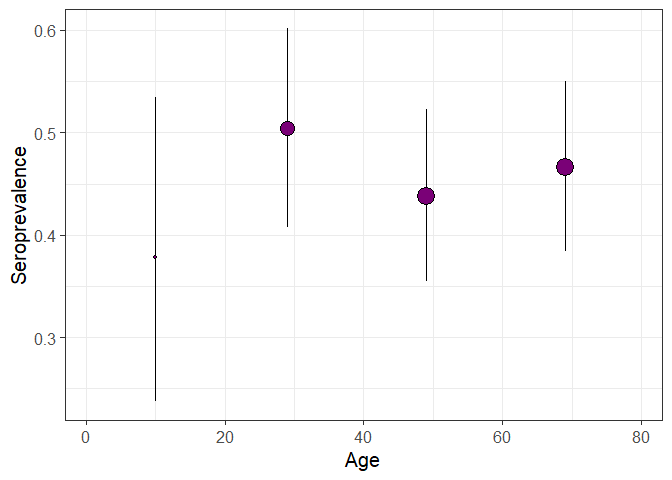
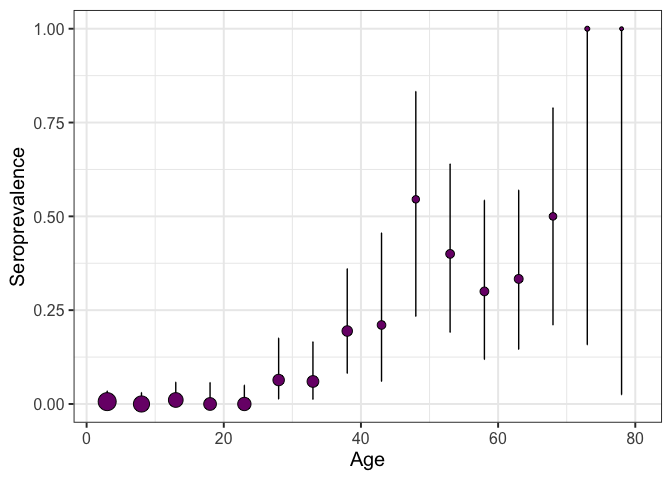
update README

diff --git a/README.md b/README.md
@@ -59,10 +59,11 @@ can be used to test out the package.
 data(chagas2012)
 head(chagas2012, 5)
 #>   survey_year n_sample n_seropositive age_min age_max
-#> 1        2015      144             63      40      59
-#> 2        2015      148             69      60      79
-#> 3        2015       45             17       1      19
-#> 4        2015      109             55      20      39
+#> 1        2012       34              0       1       1
+#> 2        2012       25              0       2       2
+#> 3        2012       35              1       3       3
+#> 4        2012       29              0       4       4
+#> 5        2012       36              0       5       5
 ```
 
 The function `prepare_serodata` will prepare the entry data for the use
@@ -72,7 +73,7 @@ in the provided dataset. A visualisation of the prepared seroprevalence
 data can be obtained using the function plot_seroprev:
 
 ``` r
-plot_serosurvey(chagas2012, size_text = 15)
+plot_serosurvey(chagas2012, bin_serosurvey = TRUE, size_text = 15)
 ```
 
 <img src="man/figures/README-data_test-1.png" width="50%" style="display: block; margin: auto;" />
